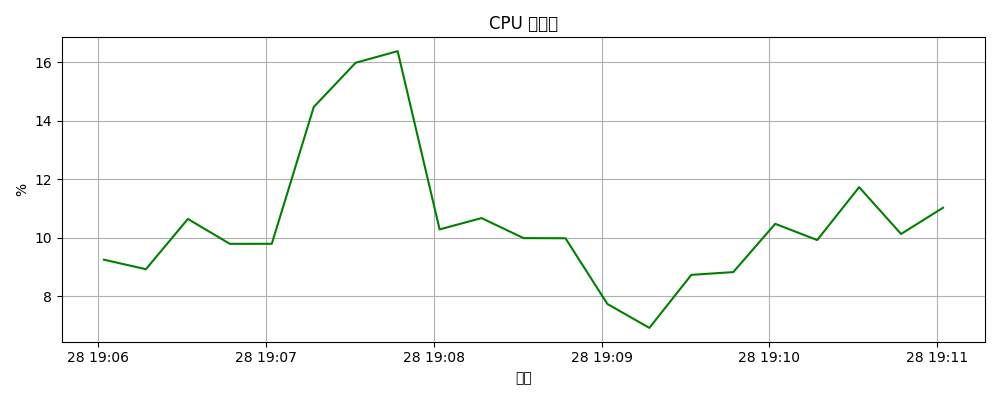
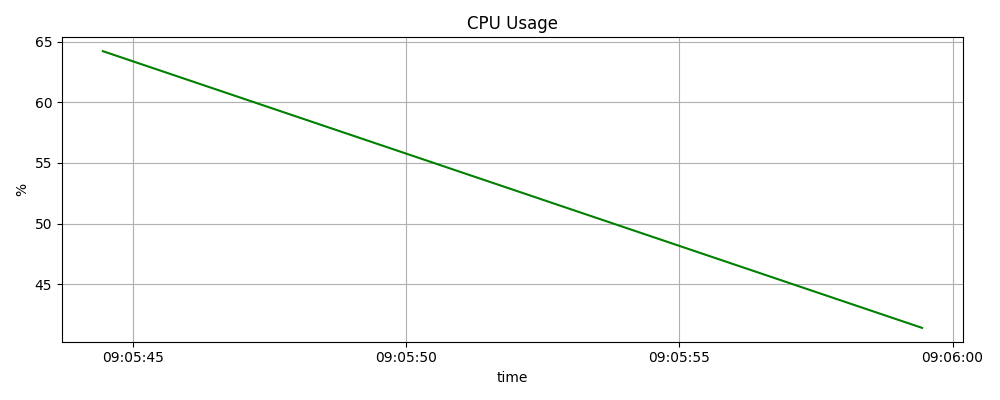
Final_marge

diff --git a/app.py b/app.py
@@ -18,12 +18,14 @@ OPERATOR_URL = "http://host.docker.internal:8000/exec"
 
 #按鈕
 custom_keyboard = [
-    ["/op_exec who", "/op_port", "/op_stop -p 80"],
+    ["/op_exec ps", "/op_port", "/op_stop"],
+    ["/more"],
     ["/mon_cpu", "/mon_cpu_picture", "/mon_cpu_picture 20"],
     ["/mon_mem", "/mon_mem_picture", "/mon_mem_picture 20"],
     ["/mon_disk", "/mon_disk_picture", "/mon_disk_picture 20"],
-    ["/more"]
+    ["/more_info_GitHub"]
 ]
+
 reply_markup = ReplyKeyboardMarkup(custom_keyboard, resize_keyboard=True)
 
 
@@ -73,14 +75,49 @@ async def op_port(update: Update, context: ContextTypes.DEFAULT_TYPE):
     except Exception as e:
         await update.message.reply_text(f"❌ 呼叫控制 API 失敗：{e}")
 
+start_test="""
+這裡是 SeeServerHealth，在這裡你可以即時監控與操作自己的 Server ，我們提供以下功能：\n
+Server 控制
+- /op_exec <cmd> 執行任何 shell 指令(除了 sudo 指令) 
+- /op_port  查看目前有開啟的 port
+- /op_stop <port> 關閉指定 port
+- /more 開啟網頁終端機，可以操作更多功能\n
+監控數據
+- /mon_cpu 顯示當下的 CPU 使用率
+- /mon_cpu_picture  用圖表顯示 5 分鐘前到現在的 CPU 使用率
+- /mon_cpu_picture <參數>  用圖表顯示 ? 分鐘前到現在的 CPU 使用率
+- /mon_cpu_picture <時間> <參數>  用圖表顯示 <時間> 前後 ? 分鐘前到現在的 CPU 使用率
+其中 cpu 可以換成 mem 或 disk 可以查看記憶體與磁碟使用率 
+"""
 
 # /start 指令時顯示自訂鍵盤
 async def start(update: Update, context: ContextTypes.DEFAULT_TYPE):
     await update.message.reply_text(
-            "這裡是 SeeServerHealth，請選擇指令，下為指令說明: \n mon_cpu 為看當前cpu usage %數",
+            start_test,
         reply_markup=reply_markup
     )
 
+# server terminal
+async def more(update: Update, context: ContextTypes.DEFAULT_TYPE):
+    if not is_user_allowed(update.effective_user.id):
+        await update.message.reply_text("🚫 沒有權限")
+        return
+
+    web_terminal_url = "https://573a-2001-e10-6840-107-e453-e7ba-3530-6c08.ngrok-free.app"
+    out_text = "🔗 請點以下網址開啟並登入\n" + web_terminal_url
+    await update.message.reply_text(
+        out_text,
+        reply_markup=reply_markup
+    )
+
+#GitHub link
+async def more_info_GitHub(update: Update, context: ContextTypes.DEFAULT_TYPE):
+    web_terminal_url="https://github.com/cyleafish/See-Server-Health/tree/main"
+    out_text= "請點以下網址查看 GitHub\n"+web_terminal_url
+    await update.message.reply_text(
+            out_text,
+        reply_markup=reply_markup
+    )
 
 # 指令註冊
 # app.add_handler(CommandHandler("op_exec", op_exec))
@@ -88,6 +125,8 @@ async def start(update: Update, context: ContextTypes.DEFAULT_TYPE):
 # app.add_handler(cpu_picture_handler())  # /cpu_picture
 
 app.add_handler(CommandHandler("start", start))
+app.add_handler(CommandHandler("more", more))
+app.add_handler(CommandHandler("more_info_GitHub", more_info_GitHub))
 
 app.add_handler(CommandHandler("op_exec", op_exec))
 app.add_handler(CommandHandler("op_stop", op_stop))

diff --git a/monitor/cpu.py b/monitor/cpu.py
@@ -22,15 +22,26 @@ PROMETHEUS_URL = "http://host.docker.internal:9090"
 
 def parse_cpu_picture_args(args):
     now = datetime.now()
+
     if not args:
+        # 沒有參數，預設抓「現在 - 5分鐘」到「現在」
         end = now
         start = now - timedelta(minutes=5)
-    else:
+    elif len(args) == 1:
+        # 一個參數：/cpu_picture 40
+        end = now
+        start = now - timedelta(minutes=int(args[0]))
+    elif len(args) == 2:
+        # 兩個參數：/cpu_picture 1940 10
         center = datetime.strptime(args[0], "%H%M").replace(
-            year=now.year, month=now.month, day=now.day)
-        offset = int(args[1]) if len(args) > 1 else 5
+            year=now.year, month=now.month, day=now.day
+        )
+        offset = int(args[1])
         start = center - timedelta(minutes=offset)
         end = center + timedelta(minutes=offset)
+    else:
+        raise ValueError("參數格式錯誤")
+
     return start, end
 
 #當下的 cpu usage
@@ -72,8 +83,8 @@ async def mon_cpu_picture(update: Update, context: ContextTypes.DEFAULT_TYPE):
         values = [float(x[1]) for x in result[0]['values']]
         plt.figure(figsize=(10, 4))
         plt.plot(timestamps, values, label='CPU Usage %', color='green')
-        plt.title('CPU 使用率')
-        plt.xlabel('時間')
+        plt.title('CPU Usage')
+        plt.xlabel('time')
         plt.ylabel('%')
         plt.grid(True)
         plt.tight_layout()

diff --git a/monitor/disk.py b/monitor/disk.py
@@ -14,7 +14,7 @@ import matplotlib.font_manager as fm
 plt.rcParams['font.family'] = 'Noto Sans CJK JP'
 plt.rcParams['axes.unicode_minus'] = False  # 避免負號顯示錯誤
 
-PROMETHEUS_URL = 'http://localhost:9090'
+PROMETHEUS_URL = 'http://host.docker.internal:9090'
 
 def parse_disk_picture_args(args):
     now = datetime.now()
@@ -96,8 +96,8 @@ async def mon_disk_picture(update: Update, context: ContextTypes.DEFAULT_TYPE):
     # 繪圖
     plt.figure(figsize=(10, 4))
     plt.plot(timestamps, values, label='Disk Usage %', color='purple', linewidth=3, linestyle='--')
-    plt.title('Disk 使用率 ')
-    plt.xlabel('時間')
+    plt.title('Disk Usage')
+    plt.xlabel('time')
     plt.ylabel('%')
     plt.ylim(0, 100)
     plt.grid(True)

diff --git a/monitor/mem.py b/monitor/mem.py
@@ -96,8 +96,8 @@ async def mon_mem_picture(update: Update, context: ContextTypes.DEFAULT_TYPE):
     # 繪圖
     plt.figure(figsize=(10, 4))
     plt.plot(timestamps, values, label='Memory Usage %', color='blue', linewidth=3, linestyle='--')
-    plt.title('Memory 使用率 ')
-    plt.xlabel('時間')
+    plt.title('Memory Usage')
+    plt.xlabel('time')
     plt.ylabel('%')
     plt.ylim(0, 100)
     plt.grid(True)
